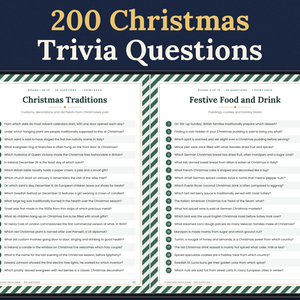
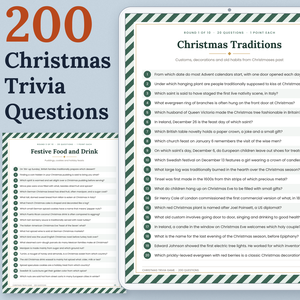
fix: trivia meaning-duplicate check + side-layout cover (bug rule, fix round 2)
Claude-Session: https://claude.ai/code/session_01UmW7iCF1r11qeVwSYsHRib

diff --git a/factory/stages/night-shift/output/2026-11-09-xmas-trivia-build/photos.py b/factory/stages/night-shift/output/2026-11-09-xmas-trivia-build/photos.py
@@ -21,45 +21,58 @@ font = gs.font
 used = {}
 
 
-# ------------------------------------------------------------------ 1 cover (fix round 1): device family, landscape tablet
-# showing the real 2-page spread on a flat midnight-navy ground; gold + warm-white headline, no card, no table scene.
-NAVY = (27, 38, 64); GOLD = (233, 196, 112); WARM = (250, 244, 230)
+# ------------------------------------------------------------------ 1 cover (fix round 2): side layout on a light frost-blue ground.
+# Portrait tablet with a light silver bezel + soft shadow on the right (Round 1 page), one printed page (Round 3) tucked
+# under its left edge, the headline stacked BESIDE the tablet in deep ink with a burnt-orange "200". No dark ground,
+# no centred top headline, no gold-over-cream, no card, no table scene.
+FROST = (198, 212, 223); INK = (24, 36, 56); EMBER = (184, 72, 28); SILVER = (247, 248, 250)
 def cover():
-    W, H = 2000, 1500
-    im = Image.new("RGB", (W, H), NAVY)
-    g = np.random.default_rng(7).normal(0, 4, (H, W, 1))
-    im = Image.fromarray(np.clip(np.asarray(im).astype(float) + g, 0, 255).astype("uint8"))
-    d = ImageDraw.Draw(im)
-    l1, l2 = "200 Christmas", "Trivia Questions"
-    f1 = font("serifB", 142)
-    while max(f1.getlength(l1), f1.getlength(l2)) > 1440: f1 = font("serifB", f1.size - 4)
-    y = 8
-    d.text((W / 2, y), l1, font=f1, fill=GOLD, anchor="ma"); bb1 = d.textbbox((W / 2, y), l1, font=f1, anchor="ma")
-    y = bb1[3] + 2
-    d.text((W / 2, y), l2, font=f1, fill=WARM, anchor="ma"); bb2 = d.textbbox((W / 2, y), l2, font=f1, anchor="ma")
-    # tablet: bezel, screen with the two real pages side by side (whole pages, footers included)
-    top = bb2[3] + 22
-    bez, side, bot = 20, 40, 14
-    sh_ = H - bot - top - 2 * bez                 # screen height
-    pw = round(sh_ * 612 / 792); gut = 6
-    sw = 2 * pw + gut
-    tw = sw + 2 * side; th = sh_ + 2 * bez
-    tx = (W - tw) // 2; ty = top
     from PIL import ImageFilter
-    shadow = Image.new("L", (W, H), 0)
-    ImageDraw.Draw(shadow).rounded_rectangle([tx + 10, ty + 24, tx + tw + 10, ty + th + 24], 60, fill=150)
-    im.paste((8, 12, 24), (0, 0), shadow.filter(ImageFilter.GaussianBlur(26)))
-    d = ImageDraw.Draw(im)
-    d.rounded_rectangle([tx, ty, tx + tw, ty + th], 58, fill=(24, 24, 27), outline=(92, 94, 102), width=4)
-    d.ellipse([tx + side / 2 - 7, ty + th / 2 - 7, tx + side / 2 + 7, ty + th / 2 + 7], fill=(52, 54, 60))
-    sx, sy = tx + side, ty + bez
-    d.rectangle([sx, sy, sx + sw, sy + sh_], fill=(214, 216, 220))
+    W, H = 2000, 1500
+    g = np.random.default_rng(7).normal(0, 3, (H, W, 1))
+    im = Image.fromarray(np.clip(np.full((H, W, 3), FROST, float) + g, 0, 255).astype("uint8"))
     mask = Image.new("L", (W, H), 0); md = ImageDraw.Draw(mask)
-    for k, n in enumerate([3, 5]):
-        pg = P[n].convert("RGB").resize((pw, sh_), Image.LANCZOS)
-        x = sx + k * (pw + gut)
-        im.paste(pg, (x, sy)); md.rectangle([x, sy, x + pw - 1, sy + sh_ - 1], fill=255)
-    return im, mask, {"line1": bb1, "line2": bb2, "card": (min(bb1[0], bb2[0]), bb1[1], max(bb1[2], bb2[2]), bb2[3]),
+    def shadow(box, r, off=(14, 26), blur=30, a=120):
+        sh = Image.new("L", (W, H), 0)
+        ImageDraw.Draw(sh).rounded_rectangle([box[0] + off[0], box[1] + off[1], box[2] + off[0], box[3] + off[1]], r, fill=a)
+        im.paste((92, 108, 124), (0, 0), sh.filter(ImageFilter.GaussianBlur(blur)))
+    # tablet geometry (portrait), right side
+    bez = 34; sh_ = 1352; sw = round(sh_ * 612 / 792)
+    tw, th = sw + 2 * bez, sh_ + 2 * bez
+    tx, ty = W - 46 - tw, (H - th) // 2 - 8
+    # printed page under the tablet's left edge, whole (footer included)
+    pw = 620; ph = round(pw * 792 / 612)
+    px_, py_ = 262, H - 34 - ph
+    shadow((px_, py_, px_ + pw, py_ + ph), 4, off=(8, 14), blur=16, a=110)
+    im.paste(P[5].convert("RGB").resize((pw, ph), Image.LANCZOS), (px_, py_))
+    md.rectangle([px_, py_, px_ + pw - 1, py_ + ph - 1], fill=255)
+    shadow((tx, ty, tx + tw, ty + th), 64)
+    d = ImageDraw.Draw(im)
+    d.rounded_rectangle([tx, ty, tx + tw, ty + th], 64, fill=SILVER, outline=(168, 178, 190), width=4)
+    d.rounded_rectangle([tx + 10, ty + 10, tx + tw - 10, ty + th - 10], 56, outline=(226, 230, 235), width=2)
+    d.ellipse([tx + tw / 2 - 8, ty + bez / 2 - 8, tx + tw / 2 + 8, ty + bez / 2 + 8], fill=(150, 158, 168))
+    sx, sy = tx + bez, ty + bez
+    im.paste(P[3].convert("RGB").resize((sw, sh_), Image.LANCZOS), (sx, sy))
+    d.rectangle([sx, sy, sx + sw - 1, sy + sh_ - 1], outline=(120, 128, 138), width=2)
+    md.rectangle([px_, py_, px_ + pw - 1, py_ + ph - 1], fill=0)     # recount: page minus what the tablet covers
+    vis = Image.new("L", (W, H), 0); vd = ImageDraw.Draw(vis)
+    vd.rectangle([px_, py_, px_ + pw - 1, py_ + ph - 1], fill=255); vd.rounded_rectangle([tx, ty, tx + tw, ty + th], 64, fill=0)
+    mask.paste(255, (0, 0), vis); md = ImageDraw.Draw(mask); md.rectangle([sx, sy, sx + sw - 1, sy + sh_ - 1], fill=255)
+    # headline, stacked beside the tablet, left-aligned at x 272, above the printed page
+    x0, xmax = 272, tx - 28
+    words = ["Christmas", "Trivia", "Questions"]
+    fw = font("serifB", 150)
+    while max(fw.getlength(w_) for w_ in words) > xmax - x0: fw = font("serifB", fw.size - 2)
+    fn = font("serifB", round(fw.size * 2.3))
+    while fn.getlength("200") > xmax - x0: fn = font("serifB", fn.size - 4)
+    y = 30 - (d.textbbox((x0, 0), "200", font=fn, anchor="la")[1])      # ink top at y 30
+    d.text((x0, y), "200", font=fn, fill=EMBER, anchor="la"); b0 = d.textbbox((x0, y), "200", font=fn, anchor="la")
+    y = b0[3] + 18; bbs = [b0]
+    for w_ in words:
+        d.text((x0, y), w_, font=fw, fill=INK, anchor="la"); b = d.textbbox((x0, y), w_, font=fw, anchor="la"); bbs.append(b)
+        y = b[3] + round(fw.size * 0.16)
+    head = (min(b[0] for b in bbs), bbs[0][1], max(b[2] for b in bbs), bbs[-1][3])
+    return im, mask, {"line1": bbs[0], "line2": bbs[1], "words": bbs, "card": head, "page": (px_, py_, px_ + pw, py_ + ph),
                       "tablet": (tx, ty, tx + tw, ty + th), "screen": (sx, sy, sx + sw, sy + sh_)}, sy
 
 
@@ -70,15 +83,17 @@ s_ = min(im.size); x_ = (im.width - s_) // 2
 im.crop((x_, 0, x_ + s_, s_)).resize((300, 300), Image.LANCZOS).save(OUT + "/thumb300.png")
 card = boxes["card"]
 assert card[0] >= 270 and card[2] <= 1730, ("headline outside the centred square", card)
-ink = boxes["line2"][3] - boxes["line1"][1]
-line_h = boxes["line1"][3] - boxes["line1"][1]
-print(f"cover headline: 2 lines, ink {ink}px = {ink / 1500 * 100:.1f}% of height (one line {line_h}px = {line_h / 1500 * 100:.1f}%)")
-assert line_h / 1500 >= 0.07 and ink / 1500 >= 0.09
+ink = card[3] - card[1]
+line_h = boxes["line1"][3] - boxes["line1"][1]; word_h = boxes["line2"][3] - boxes["line2"][1]
+print(f"cover headline: 4 stacked lines beside the tablet, ink {ink}px = {ink / 1500 * 100:.1f}% of height ('200' {line_h}px = {line_h / 1500 * 100:.1f}%, word line {word_h}px = {word_h / 1500 * 100:.1f}%)", card)
+assert line_h / 1500 >= 0.09 and ink / 1500 >= 0.09
+assert card[2] < boxes["tablet"][0] and card[3] + 24 < boxes["page"][1], "headline must sit beside the tablet, clear of the page"
 m = np.asarray(mask) > 0
 print(f"real page pixels: {m.mean() * 100:.1f}% of the frame, {m[:, 250:1750].mean() * 100:.1f}% of the centred square")
 assert m.mean() >= 0.60 and m[:, 250:1750].mean() >= 0.60
 # whole pages: the tablet (and so every page edge and footer) sits inside the frame, nothing cut
-t = boxes["tablet"]; print("tablet box", t)
+t = boxes["tablet"]; print("tablet box", t, "printed page", boxes["page"])
+pg_ = boxes["page"]; assert pg_[0] >= 8 and pg_[1] >= 0 and pg_[3] <= 1500 - 12, ("printed page cut by the frame", pg_)
 assert t[0] >= 8 and t[1] >= 0 and t[2] <= 1992 and t[3] <= 1500 - 12, ("cover crop cuts the device/pages", t)
 ys, xs = np.nonzero(m); assert ys.max() <= 1500 - 30 and xs.min() >= 30 and xs.max() <= 1970
 

diff --git a/factory/stages/night-shift/output/2026-11-09-xmas-trivia-build/checks.py b/factory/stages/night-shift/output/2026-11-09-xmas-trivia-build/checks.py
@@ -1,3 +1,4 @@
+import re
 # ------------------------------------------------------------------ fix round 2: EVERY page's lowest element ends 0.25 in+ above the footer rule
 def check_clearance(pdf, dpi=100):
     """Render every page and assert no ink sits between the footer rule and 0.25 in above it (x L..R).
@@ -71,6 +72,40 @@ def check_boxes(pdf, dpi=150):
             worst = {kk: round(v / 72, 3) for kk, v in side.items() if v < PAD}
             bad.append((pg, name, "ink inside 0.25 in", worst))
     return bad
+
+
+# ------------------------------------------------------------------ fix round 2: same-meaning duplicates (Judge, Nov 9)
+STOP = set("a an the of in on at to for from is are was were be do does did how many what which who whom whose when where why "
+           "there their this that these those it its by with and or as into out up your you we our they each every one "
+           "called name named kind often most usually traditionally".split())
+
+
+def _words(s):
+    w = re.sub(r"[^a-z0-9 ]", " ", s.lower().replace("'s", "")).split()
+    return {x[:-1] if len(x) > 3 and x.endswith("s") else x for x in w if x not in STOP}
+
+
+def _ans(a):
+    a = re.sub(r"[^a-z0-9 ]", " ", a.lower().replace(",", ""))
+    return " ".join(x for x in a.split() if x not in ("the", "a", "an", "about", "st"))
+
+
+def check_meaning_dups(items, share=0.60):
+    """items = [(where, question, answer)]. A pair is a same-meaning duplicate when the normalized answers match
+    and the questions share 60%+ of their content words (overlap over the smaller set). True/False answers are
+    compared on words only at 80%+ (100 statements share 2 answers). Returns (dups, closest same-answer pair)."""
+    dups, best = [], (0.0, None)
+    for i in range(len(items)):
+        for j in range(i + 1, len(items)):
+            (r1, q1, a1), (r2, q2, a2) = items[i], items[j]
+            w1, w2 = _words(q1), _words(q2)
+            ov = len(w1 & w2) / max(1, min(len(w1), len(w2)))
+            same = _ans(a1) == _ans(a2)
+            tf = _ans(a1) in ("true", "false")
+            if same and ov > best[0]: best = (round(ov, 2), (r1, q1, r2, q2))
+            if (same and not tf and ov >= share) or (same and tf and ov >= 0.80):
+                dups.append((r1, q1, r2, q2, round(ov, 2)))
+    return dups, best
 
 
 if __name__ == "__main__":

diff --git a/factory/stages/night-shift/output/2026-11-09-xmas-trivia-build/build.py b/factory/stages/night-shift/output/2026-11-09-xmas-trivia-build/build.py
@@ -353,7 +353,7 @@ calc = {
     "If the winter solstice is on December 21, how many days later is Christmas Day?": str(25 - 21),
     "How many letters are in the word CHRISTMAS?": str(len("CHRISTMAS")),
     "Counting both days, how many days are there from December 1 to December 25?": str((datetime.date(2026, 12, 25) - datetime.date(2026, 12, 1)).days + 1),
-    "How many days are there in the month of December?": str(__import__("calendar").monthrange(2027, 12)[1]),
+    "How many days after Christmas Day is Epiphany, on January 6?": str((datetime.date(2027, 1, 6) - datetime.date(2026, 12, 25)).days),
     "How many minutes are there in Christmas Day?": f"{24 * 60:,}",
     "24 party guests split into teams of 4. How many teams is that?": str(24 // 4),
     "By number, which month of the year is December?": f"{datetime.date(2026, 12, 1).month}th",
@@ -394,6 +394,10 @@ print(f"verify OK: 200 questions unique, T/F 10/10, {len(calc)} number answers c
 
 PAD = 18  # the bar: 0.25 in
 exec(open(HERE + "/checks.py").read().replace('if __name__ == "__main__":', "if True:"))
+# fix round 2: same-meaning duplicate check over all 200 + tie-breakers (exact-text uniqueness missed R10 Q18 = R9 Q7)
+dups, near = check_meaning_dups([(f"R{ri}", q, a) for ri, q, a in qs_all] + [(f"TB{i + 1}", q, a) for i, (q, a) in enumerate(TIEBREAKERS)])
+print(f"meaning duplicates: {len(dups)} (same answer + 60%+ shared content words); closest same-answer pair: {near}")
+assert not dups, ("same-meaning duplicate questions", dups)
 # fill check: every content page reaches within 1.2 in of the footer rule (no empty band over ~15%)
 for n, gap_in, has_rule in check_clearance(OUT):
     if has_rule: assert gap_in < 1.2, ("half-empty page", n, gap_in)

diff --git a/factory/stages/night-shift/output/2026-11-09-xmas-trivia-build/content.py b/factory/stages/night-shift/output/2026-11-09-xmas-trivia-build/content.py
@@ -219,7 +219,7 @@ ROUNDS = [
         ("How many letters are in the word CHRISTMAS?", "9"),
         ("Roughly how far is Bethlehem from Jerusalem: 6, 60 or 600 miles?", "About 6 miles"),
         ("Counting both days, how many days are there from December 1 to December 25?", "25"),
-        ("How many days are there in the month of December?", "31"),
+        ("How many days after Christmas Day is Epiphany, on January 6?", "12"),
         ("How many minutes are there in Christmas Day?", "1,440"),
         ("24 party guests split into teams of 4. How many teams is that?", "6"),
     ]),

diff --git a/factory/qa/MISSES.md b/factory/qa/MISSES.md
@@ -12,3 +12,4 @@ plus the check added so it never slips through again. Newest last. Never delete 
 | 2026-10-25 | Warden (eyes, not the script) | 2027 Sage Green Minimalist Planner (4596144943) cover is a bare calendar page on wood with no title card (fails "title on the cover matches the listing") | No audit rule reads cover text; COVER_MISMATCH only compares alt text | None yet: tried an OCR title-word-overlap rule on all 27 covers, too noisy (the titled ADHD Budget App cover scored 0 words, the untitled Sage cover 2), so eyes-on contact sheet stays the check; reported for a rebuild |
 | 2026-10-29 | Independent Judge (3 inspections: 81, 84, 84) | Text and badges cramped inside boxes on the Thanksgiving Escape Room (p02 set-up badges flush with the border, last line 0.05 in above it; p10 and p14 0.13 in) | build.py's clearance check only measured the gap above the footer rule, never the padding inside a box, so each round fixed the one spot the Judge named and the next cramped box slipped through | build.py check_boxes(): every box/card/answer box registers itself and the build fails if any ink sits within 0.25 in of its border on any side or a box enters the 0.25 in footer gap (old build 48 of 48 boxes failed, new build 0) |
 | 2026-10-31 | Independent Judge (Coupon Book FAIL 82, Oct 30) | ALL CAPS typed at MaxLen clipped every coupon, cover and envelope field; page-1 subtitle ran into the count tiles | tools/acro_font.py sized MaxLen from a mixed-case sample; the coupon build had no rendered box sweep | acro_font MaxLen from capitals (commit 0728742); 2026-10-31-coupon-book-build/check.py: pixel box sweep (57 boxes, 0 violations) + ALL CAPS fill test on all 101 fields (0 fails) |
+| 2026-11-09 | Independent Judge (Christmas Trivia re-grade, FAIL 80) | Round 10 Q18 'How many days are there in the month of December?' (31) asked the same thing as Round 9 Q7 'How many days are in December?' (31): 199 distinct questions sold as 200 | build.py only asserted exact-text uniqueness of the 200 questions; fix round 1 wrote the new Q18 without a meaning check | checks.py check_meaning_dups(): flags any pair with the same normalized answer and 60%+ shared content words (T/F 80%+) over all 200 + 3 tie-breakers; old file 1 pair flagged, new file 0; build fails on any |

diff --git a/factory/stages/night-shift/output/2026-11-09-run.md b/factory/stages/night-shift/output/2026-11-09-run.md
@@ -67,3 +67,9 @@ Fixes verified: R2 Q20 Ded Moroz + key; Tips box tight; copy 'up to 10 teams of 
 Facts: 40+ answers spot-checked (all R10, 3 tie-breakers, R1-R8 samples): 0 wrong. No brand/character/lyric.
 FIX LIST: 1) cover: make the tablet unmistakable and drop the headline-top-on-flat-dark formula (light/mid ground, visible light bezel + shadow, headline beside the tablet or not gold-over-cream); 9%+ title, 60%+ pages, no footer cut; side-by-side vs Office, Escape Adults, Coupon, Thanksgiving Escape, Party Bundle. 2) replace R10 Q18 (e.g. days from Christmas Day to Epiphany Jan 6 = 12), update p14 key, add a meaning duplicate check to checks.py, re-render, re-upload PDF, re-shoot photo 2. Expected 90-92.
 Stage: inspection, retries 2.
+
+## Fix round 2: Christmas Trivia
+Cover: side layout: portrait tablet (silver bezel, soft shadow, Round 1) right, printed Round 3 page whole under its edge, headline '200 / Christmas / Trivia / Questions' stacked beside it in ink + burnt orange on flat frost blue (198,212,223). Pages 62.6% of frame (73.3% of square); '200' line 12.1% of height, headline block 39.3%; tablet and page whole inside the frame (asserted). 300 px square: 200 and title read.
+Side-by-side vs Office, Escape Adults, Coupon, Thanksgiving Escape, Party Bundle (full + 300 px squares, output/2026-11-09-xmas-trivia-build/side_by_side.jpg): only side headline, only light ground, only visible tablet. Rival top 6 not compared (no images on disk).
+File: R10 Q18 -> 'How many days after Christmas Day is Epiphany, on January 6?' 12 (datetime), only question asking it (code); p14 key updated. New check_meaning_dups (same answer + 60%+ content words) over 200 + 3 TB: 0 (old file: 1, R9 Q7/R10 Q18). All other checks re-run: 200 unique, T/F 10/10, 13 numbers computed, 200 keys on key pages, 0 banned, old-trivia max 0.73, boxes 0, footers 0.26 in+, copy claims OK. 17 pages, 155913 bytes. MISSES.md line added.
+Assets: PDF 0d1ddcbd367686109d83408cb5f0253a, cover e260c4879503b5cfc16e58b4a3b4296a, photo 2 35f4db832bdca1708afd95a9c3e9085d (old 3 deleted; photos 3-5 unchanged). Stage inspection; not self-graded.

diff --git a/factory/skills/forge/SKILL.md b/factory/skills/forge/SKILL.md
@@ -44,3 +44,4 @@ Builds the PDF that gets sold: a full printable (6 to 16 content pages plus the 
 - 2026-10-31 (truth fix): a container's size must be checked against the item it claims to hold, with the numbers, by an assert in the build: the Coupon Book envelope was 2.1 in deep for 2.72 in covers and passed 89 with a false "holds all 3 books"; now 3.0 in deep (assert EH >= cover + 0.23 in) and the claim says 3 paper / 2 cardstock books (12 sheets x 0.004/0.009 in vs 0.25 in gussets). Predict: no false-fit claim on the re-judge.
 - 2026-11-01: predict no false fit on the Coupon re-judge: HIT (PASS 90). Snowbound Lodge: 16 pages, chain checked by code, check_boxes 41 to 0; round 1 still found a Letter-only PDF that said A4 on its cover, a 144-letter telegram for 19 cells and a wrong page range (file 22, then 23). Tomorrow: assert printed paper size and every letter/cell count in build.py before hand-off. Predict: file 24 on the next first look.
 - 2026-11-09: predict file 24 on the next first look: NOT GRADED yet (independent Judge next). Christmas Trivia 200: 16 content pages + thank-you, 155774 bytes, 200 keys + 13 number answers checked by code, check_boxes 9 boxes 0 faults; the first contact sheet caught a host page 200 pt over, 4 key answers too wide and 5 card titles 0.20 in from the top; the photo stage caught tie-breaker answers on a page photo 5 shows. Tomorrow: budget a dense page's card heights in code before drawing it, and keep every answer off pages the photos show. Predict: file 23/25 on the first look.
+- 2026-11-09 (Judge correction, fix round 2): a replacement question duplicated another round's question (December has 31 days, R9 Q7 and R10 Q18) because uniqueness was checked on exact text only. Now checks.py check_meaning_dups (same answer + 60%+ content words) runs in every trivia build: 1 pair before, 0 after. Tomorrow: run the meaning check on every replaced question before upload. Predict: 0 duplicate faults on the re-judge.

diff --git a/factory/skills/lens/SKILL.md b/factory/skills/lens/SKILL.md
@@ -45,3 +45,4 @@ Covers that win the tap (Grayson, Oct 23, 2026, overrides the Oct 21 line that f
 - 2026-10-31: predict Coupon Book images 17/20 on the re-judge: HIT (17 on all 3 rounds; capped by photo 4 repeating the 3 covers from photo 1 and photo 5 cropping the back panel). The fix rounds moved the score 0 points: images stayed 17 through 2 rebuilds. Tomorrow: photo 4 shows something no other photo shows (a typed page in use or a page count spread), never the cover again. Predict: Adult Escape Room images 18/20 at final.
 - 2026-11-01: predict images 18/20 at final: MISS (13 first look: cover pages 29% of frame; 16 final after the cranberry rebuild at 63%; photo 4 one small page in an empty band and a gradient ground cost the rest). Tomorrow: measure page share before hand-off and fill photo 4 edge to edge. Predict: images 17 on the next first look.
 - 2026-11-09: predict images 17 on the next first look: NOT GRADED yet. Trivia cover: Atlas table scene, 2 whole pages 61.1% of the frame, evergreen 2-line headline 17.7% of height, 300 px pass; caught before hand-off: the answer key on the cover (spoiler), page footers cut by the crop, the subline touching the Q tail. Tomorrow: photos.py asserts whole pages and no answer page in any photo from the first render. Predict: images 17/20 on the first look.
+- 2026-11-09 (Judge correction, fix round 2): the navy tablet cover still read as the Office Party Games template (flat dark ground, centred gold headline over pages, dark bezel lost on navy). Rebuilt as a side layout: light frost-blue ground, silver tablet + soft shadow, headline stacked beside it, pages 62.6% of frame. Every live cover in our 5-cover set uses a centred top headline, so the headline position is now a variety axis, not only colour. Predict: no side-by-side cap on the re-judge.
